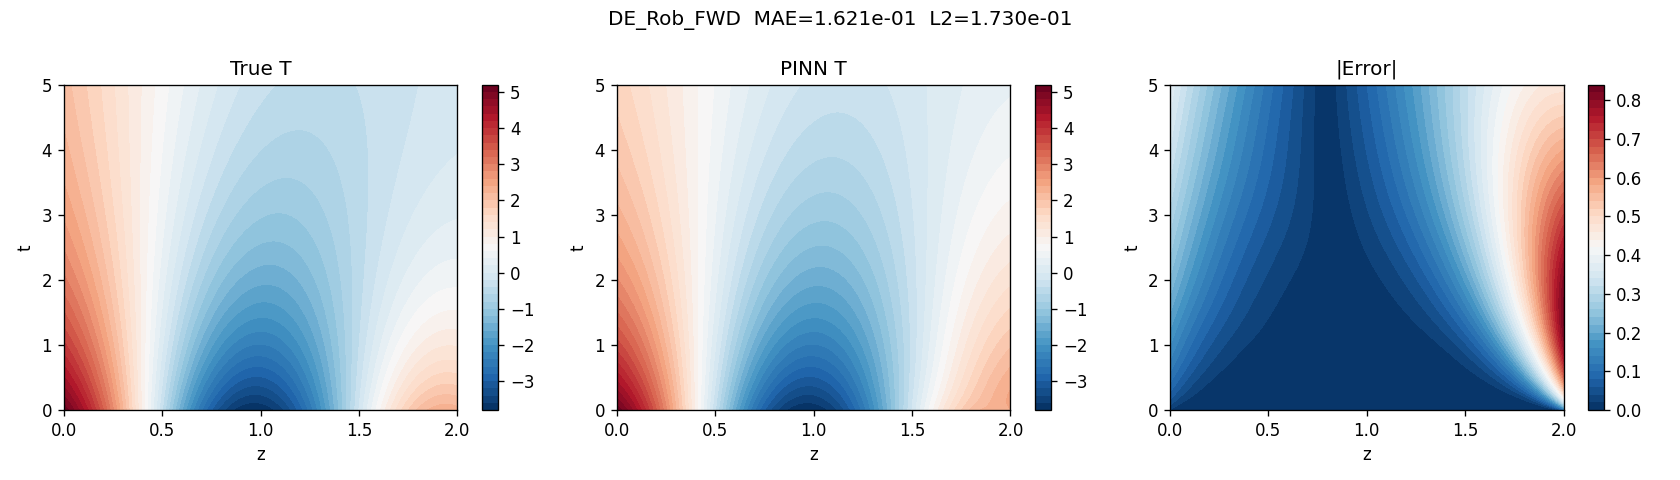
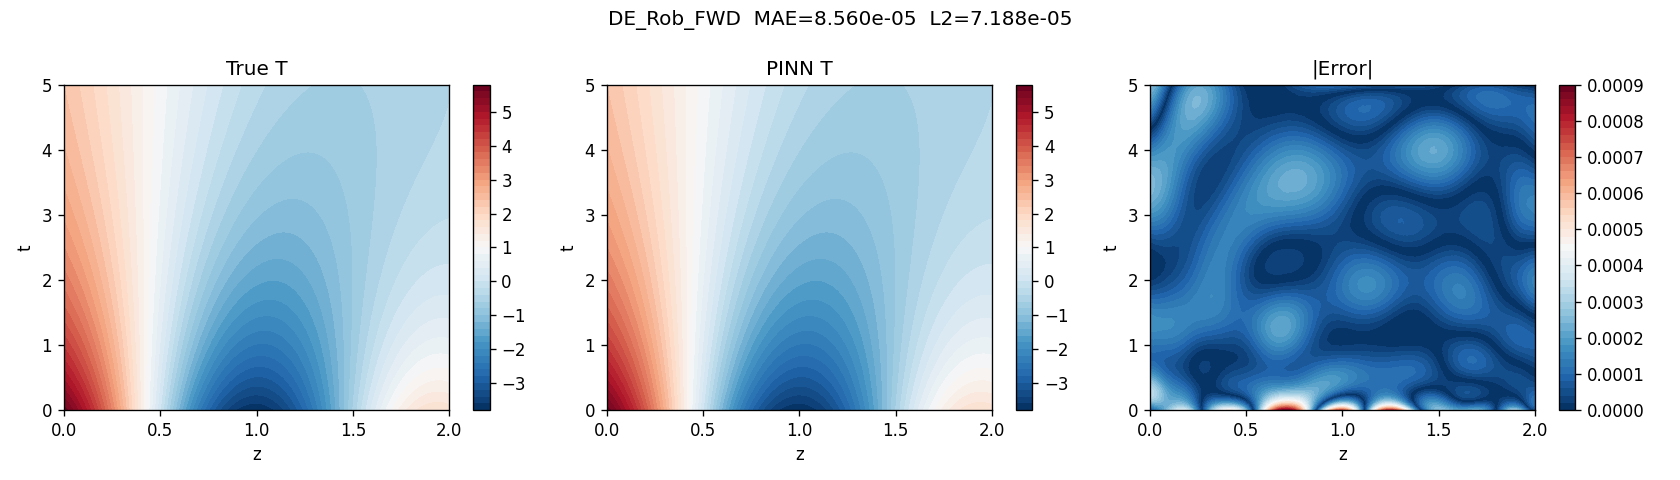
new result

diff --git a/pinn_seawater.py b/pinn_seawater.py
@@ -43,10 +43,13 @@ def T_neumann(z, t):
 
 
 def T_robin(z, t):
-    """Eq.18"""
+    """Eq.18  (general term: (nπ/L)·cos(nπz/L) - sin(nπz/L), L=2)
+    BC: dT/dz + T = 0 at both z=0 and z=L.
+    OCR in the paper dropped the π/2 coefficient on the n=1 cos term.
+    """
     return (np.exp(KZ_TRUE * t - z)
             + np.exp(-KZ_TRUE * (np.pi / 2) ** 2 * t)
-              * (np.cos(np.pi * z / 2) - np.sin(np.pi * z / 2))
+              * (np.pi / 2 * np.cos(np.pi * z / 2) - np.sin(np.pi * z / 2))
             + np.exp(-KZ_TRUE * np.pi ** 2 * t)
               * (np.pi * np.cos(np.pi * z) - np.sin(np.pi * z)))
 
@@ -183,12 +186,8 @@ class PINN:
             dT = torch.autograd.grad(T_pred, zt, torch.ones_like(T_pred),
                                      create_graph=True)[0]
             dT_dz = dT[:, 0:1]
-            # dT/dz + T = 0 at z=0;  dT/dz - T = 0 at z=L
-            z_vals = zt[:, 0:1]
-            sign = torch.where(z_vals < 1e-6,
-                               torch.ones_like(z_vals),
-                               -torch.ones_like(z_vals))
-            return dT_dz + sign * T_pred
+            # dT/dz + T = 0 at both z=0 and z=L
+            return dT_dz + T_pred
 
     # ── Total loss ────────────────────────────────────────────────────────────
     def loss(self):
@@ -296,6 +295,19 @@ def run_all(n_runs=10):
     out_dir = "pinn_results"
     os.makedirs(out_dir, exist_ok=True)
 
+    # Per-scenario training config.
+    # Robin BC has a much harder loss landscape (exponential term in solution,
+    # gradient-dependent BC), so it needs more Adam steps and higher w_pde.
+    # Paper Sec 4.2 shows increasing w_pde reduces Robin error.
+    train_cfg = {
+        "DE_Dir_FWD":  dict(adam_steps=5000,  lbfgs_iter=10000, w_pde=1.0),
+        "DE_Neum_FWD": dict(adam_steps=5000,  lbfgs_iter=10000, w_pde=1.0),
+        "DE_Rob_FWD":  dict(adam_steps=20000, lbfgs_iter=20000, w_pde=10.0),
+        "DE_Dir_INV":  dict(adam_steps=5000,  lbfgs_iter=10000, w_pde=1.0),
+        "DE_Neum_INV": dict(adam_steps=5000,  lbfgs_iter=10000, w_pde=1.0),
+        "DE_Rob_INV":  dict(adam_steps=20000, lbfgs_iter=20000, w_pde=10.0),
+    }
+
     scenarios = [
         ("dirichlet", False, "DE_Dir_FWD"),
         ("neumann",   False, "DE_Neum_FWD"),
@@ -324,11 +336,13 @@ def run_all(n_runs=10):
         maes, l2s, pde_res, kz_errs = [], [], [], []
         best_res = None
 
+        cfg = train_cfg[name]
         for seed in range(n_runs):
             np.random.seed(seed)
             torch.manual_seed(seed)
-            model = PINN(bc_type=bc, inverse=inv)
-            elapsed = model.train(adam_steps=5000, lbfgs_iter=10000)
+            model = PINN(bc_type=bc, inverse=inv, w_pde=cfg["w_pde"])
+            elapsed = model.train(adam_steps=cfg["adam_steps"],
+                                  lbfgs_iter=cfg["lbfgs_iter"])
             res = model.evaluate()
 
             # compute mean PDE residual on collocation points
